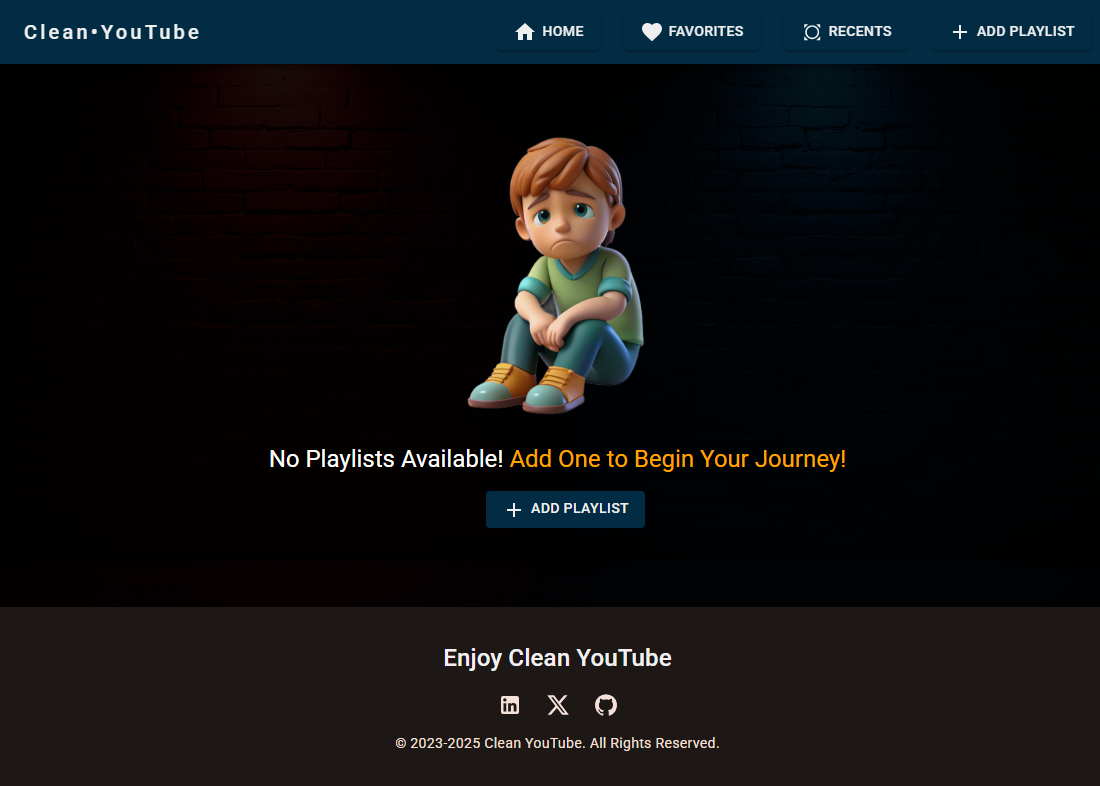
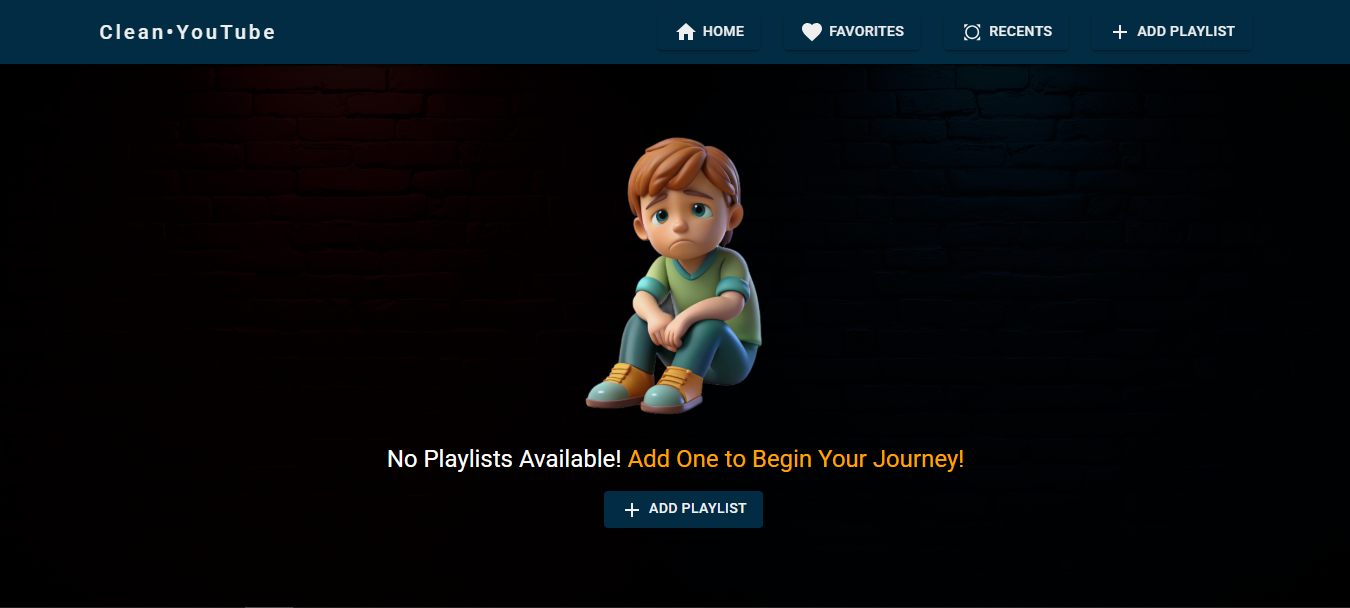
refactor: within in clean youtube

diff --git a/src/components/footer/index.jsx b/src/components/footer/index.jsx
@@ -26,27 +26,6 @@ const Footer = () => {
         gap: 1,
       }}
     >
-      {/* Heading Section */}
-      <Box
-        sx={{
-          display: "flex",
-          flexDirection: "column",
-          alignItems: "center",
-          textAlign: "center",
-        }}
-      >
-        <Typography
-          variant="h6"
-          sx={{
-            fontSize: isMediumScreen ? "1.2rem" : "1.5rem",
-            color: "#f1f1f1",
-            fontWeight: "semibold",
-          }}
-        >
-          Enjoy Clean YouTube
-        </Typography>
-      </Box>
-
       {/* Social Media Section */}
       <Box
         sx={{

diff --git a/README.md b/README.md
@@ -1,26 +1,25 @@
 # Clean Youtube Project
 
-Live Link: https://clean-youtube-application.onrender.com/
-
 ## 📚 Table of Contents
 
 - [Description](#-description)
-- [Tech Stack](#-tech-stack)
+- [Live Demo](#-live-demo)
 - [Features](#-features)
 - [Benefits](#-benefits)
+- [Tech Stack](#-tech-stack)
 - [Setup and Installation](#-setup-and-installation)
+- [Environment Variables](#-environment-variables)
+- [Author Info](#-author-info)
 
-![Clean YouTube App](./public/clean-youtube.png)
-
-## 📖 Description
+## 📝 Description
 
 Clean YouTube is a user-friendly web application designed to enhance your video-watching experience on YouTube. By providing a clean and distraction-free interface, it ensures that users can focus solely on their selected videos without interruptions from ads or cluttered layouts. Users can manage playlists, keep track of recently visited playlists, and save their favorites, all while enjoying a seamless and enjoyable experience.
 
-## 💻 Tech Stack
+## 🚀 Live Demo
 
-- React.js, React Router DOM, React YouTube, YouTube Data API, Material UI, EasyPeasy, Axios, PropTypes
+[![Project Screenshot](./public/clean-youtube.png)](https://clean-youtube-application.onrender.com/)
 
-## 🛠 Features
+## ✨ Features
 
 #### `Add Playlists by ID, URL, or Search`
 
@@ -51,14 +50,36 @@ Clean YouTube is a user-friendly web application designed to enhance your video-
 - Efficient playlist management with favorites and recent tracking.
 - Simple yet powerful controls for adding, managing, and removing playlists.
 
-## 🚀 Setup and Installation
+## 🛠 Tech Stack
 
-Follow these steps to set up the Clean YouTube Application on your local machine:
+- React.js, React Router DOM, React YouTube, YouTube Data API, Material UI, EasyPeasy, Axios, PropTypes
 
-#### `Clone the Repository:`
+## ⚙ Setup and Installation
+
+### Step-by-step instructions for cloning and running locally:
 
 ```
-https://github.com/Mohosin999/Clean-YouTube-Application.git
+✅ git clone https://github.com/Mohosin999/Clean-YouTube-App.git
+
+✅ cd Clean-YouTube-App
+
+✅ yarn install
+
+✅ yarn dev
 ```
 
-#### The End
+## 🔑 Environment Variables
+
+Create a `.env` file in the root directory of the project and add the following variable:
+
+```
+VITE_YOUTUBE_API_KEY=
+```
+
+## 📬 Author Info
+
+👤 **Mohosin Hasan Akash**
+
+- 💼 **LinkedIn:** [linkedin.com/in/mohosinh99/](https://www.linkedin.com/in/mohosinh99/)
+- 🌐 **Portfolio:** [personal-portfolio.com](https://personal-portfolio-website-brown-nine.vercel.app/)
+- 📧 **Email:** mohosin.hasan.akash@gmail.com
